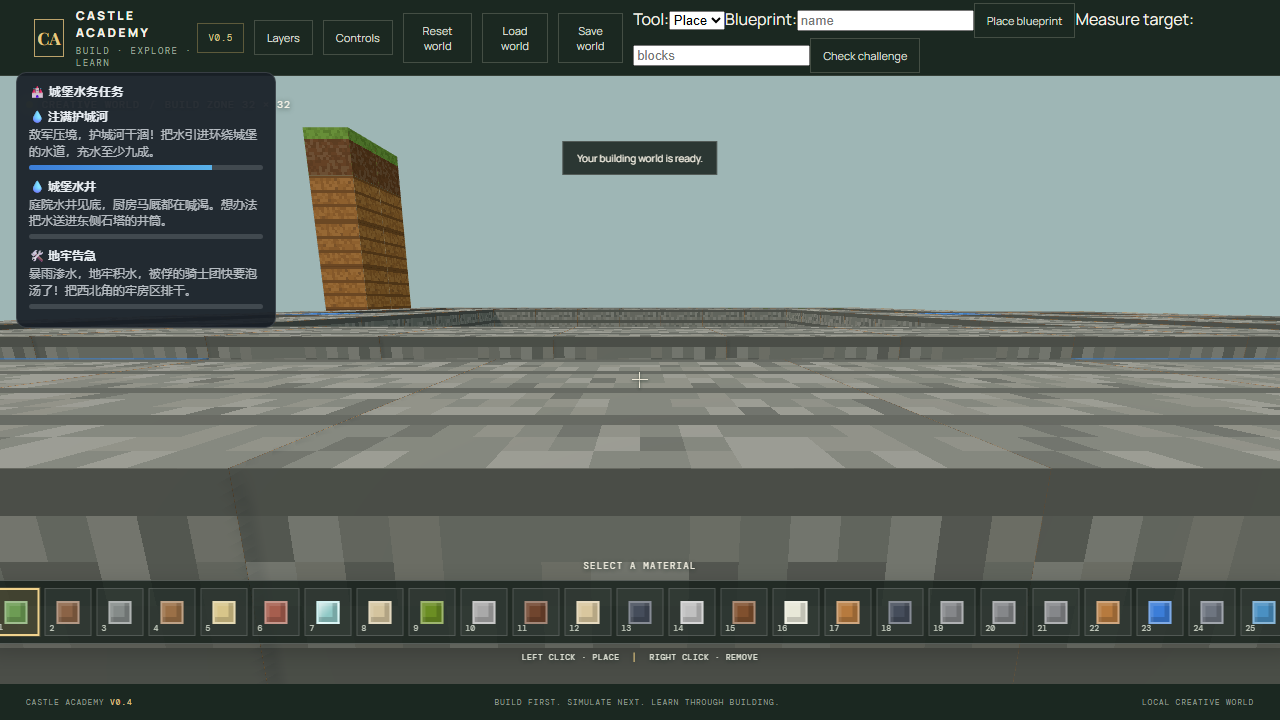
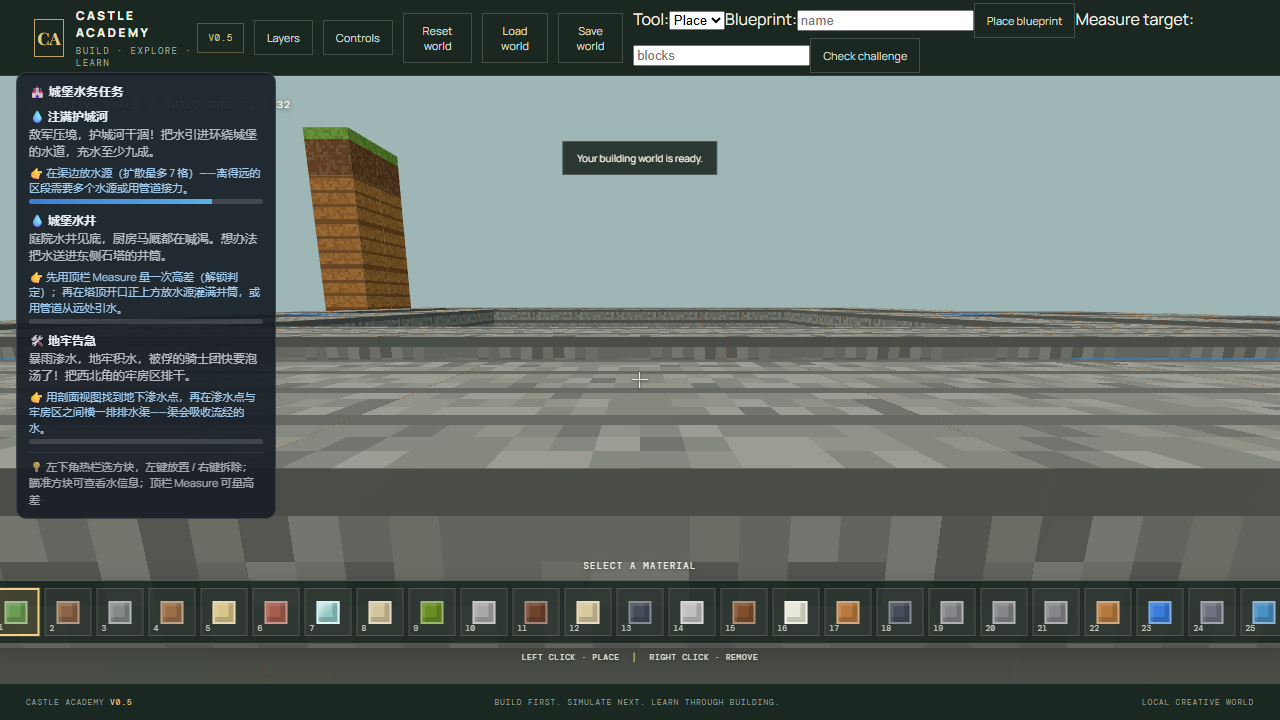
ux: 任务面板显示可操作提示（👉 hint 直接可见）+ 底部操作说明；水井提示补充测量门槛

Changed region(s): [[0.0, 0.2139, 0.2188, 0.7333]]

diff --git a/src/app/App.tsx b/src/app/App.tsx
@@ -244,6 +244,7 @@ export function App() {
                 {quest.complete ? "✅" : quest.direction === "fill" ? "💧" : "🛠"} {quest.title}
               </div>
               {!quest.complete && <div className="quest-item-brief">{quest.briefing}</div>}
+              {!quest.complete && <div className="quest-item-hint">👉 {quest.hint}</div>}
               {!quest.complete && (
                 <div className="quest-bar">
                   <div className="quest-bar-fill" style={{ width: `${Math.round(quest.progress * 100)}%` }} />
@@ -251,6 +252,9 @@ export function App() {
               )}
             </div>
           ))}
+          <div className="quest-panel-footer">
+            💡 左下角热栏选方块，左键放置 / 右键拆除；瞄准方块可查看水信息；顶栏 Measure 可量高差
+          </div>
         </div>
       )}
 

diff --git a/src/plugins/learning/castleQuests.ts b/src/plugins/learning/castleQuests.ts
@@ -55,7 +55,7 @@ export const QUEST_DEFINITIONS: readonly QuestDefinition[] = [
     id: "quest-well",
     title: "城堡水井",
     briefing: "庭院水井见底，厨房马厩都在喊渴。想办法把水送进东侧石塔的井筒。",
-    hint: "在塔顶开口正上方放水源，水会灌满井筒；或用管道从远处把水引过来。",
+    hint: "先用顶栏 Measure 量一次高差（解锁判定）；再在塔顶开口正上方放水源灌满井筒，或用管道从远处引水。",
     successMessage: "水井汩汩冒水，今晚大厅能炖汤了！",
     direction: "fill",
     region: WELL_SHAFT_CELLS,

diff --git a/src/ui/styles.css b/src/ui/styles.css
@@ -279,3 +279,17 @@ kbd { min-width: 73px; padding: 5px 6px; color: #e8d39e; background: rgba(255,25
   z-index: 30;
   pointer-events: none;
 }
+.quest-item-hint {
+  margin: 2px 0 4px;
+  line-height: 1.4;
+  color: #9fc9ec;
+  font-size: 11px;
+}
+.quest-panel-footer {
+  margin-top: 6px;
+  padding-top: 6px;
+  border-top: 1px solid rgba(255, 255, 255, 0.1);
+  opacity: 0.65;
+  font-size: 11px;
+  line-height: 1.5;
+}
